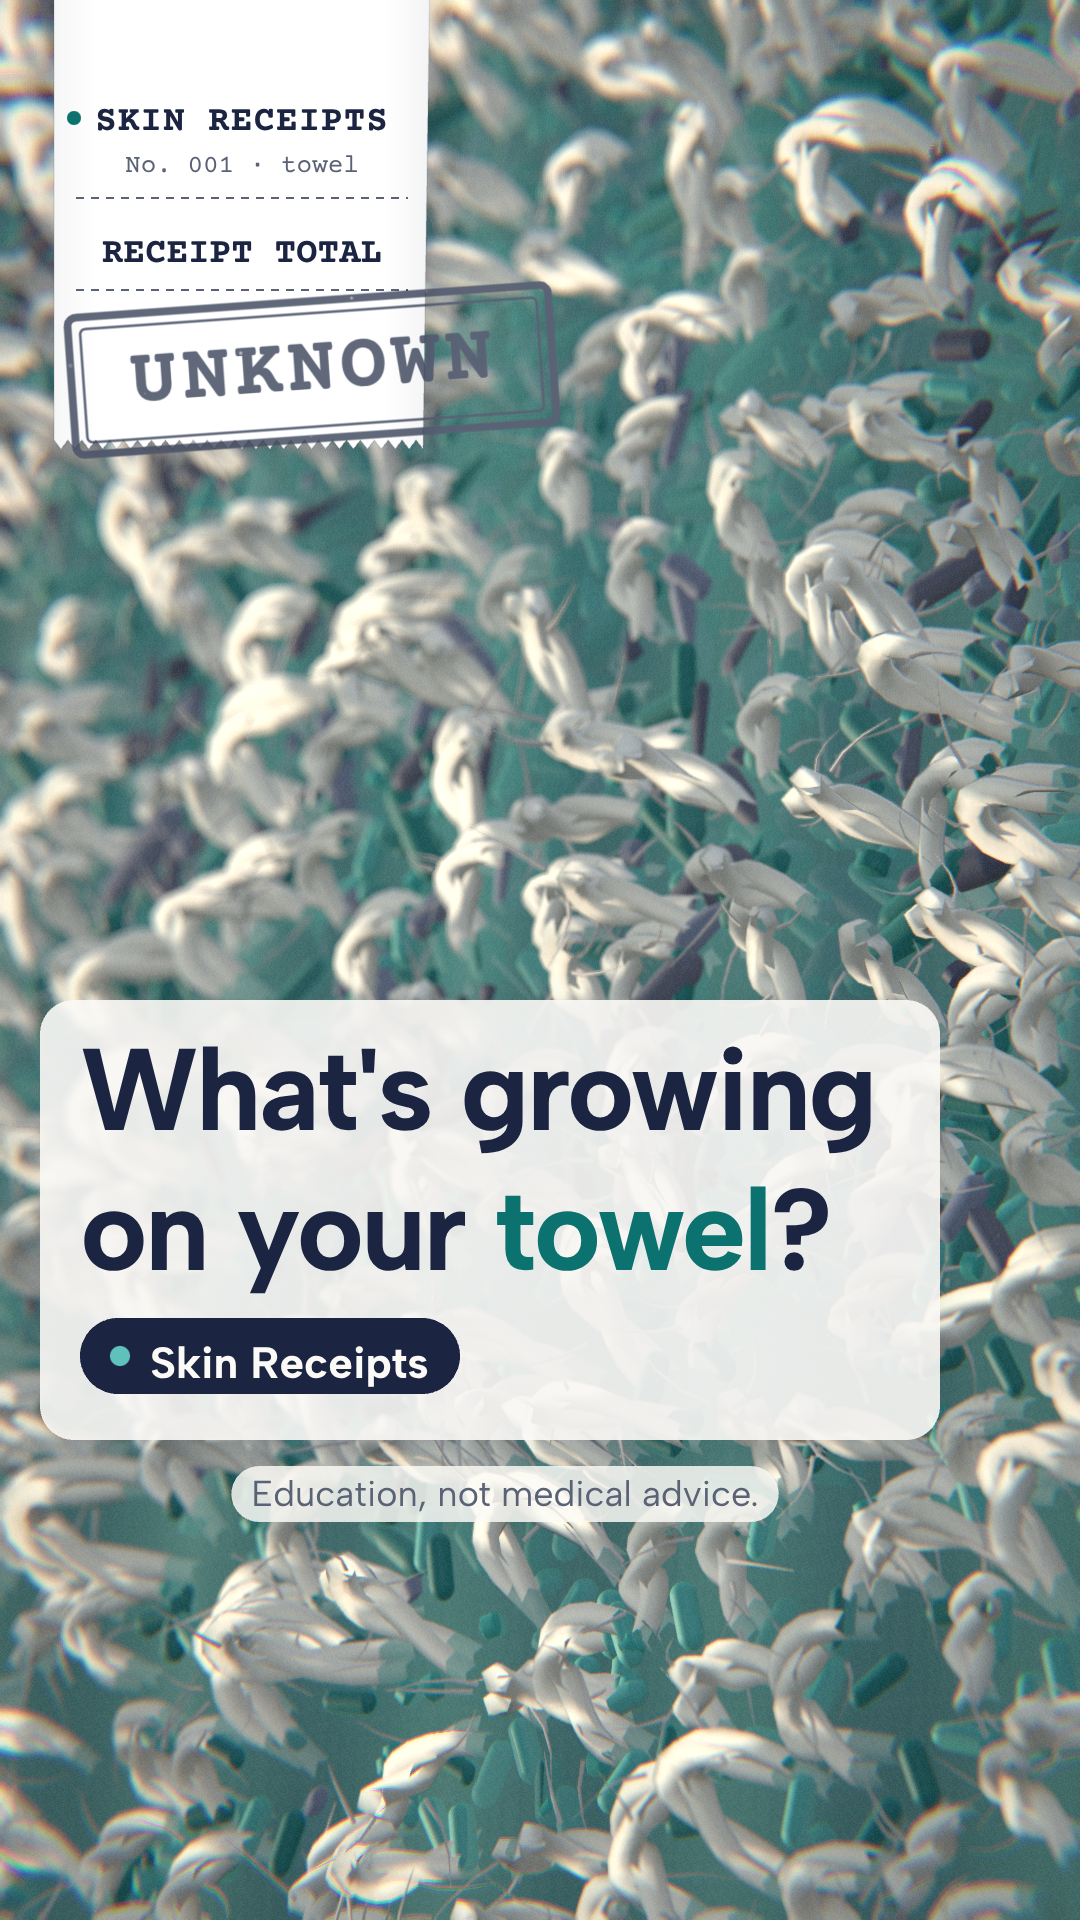
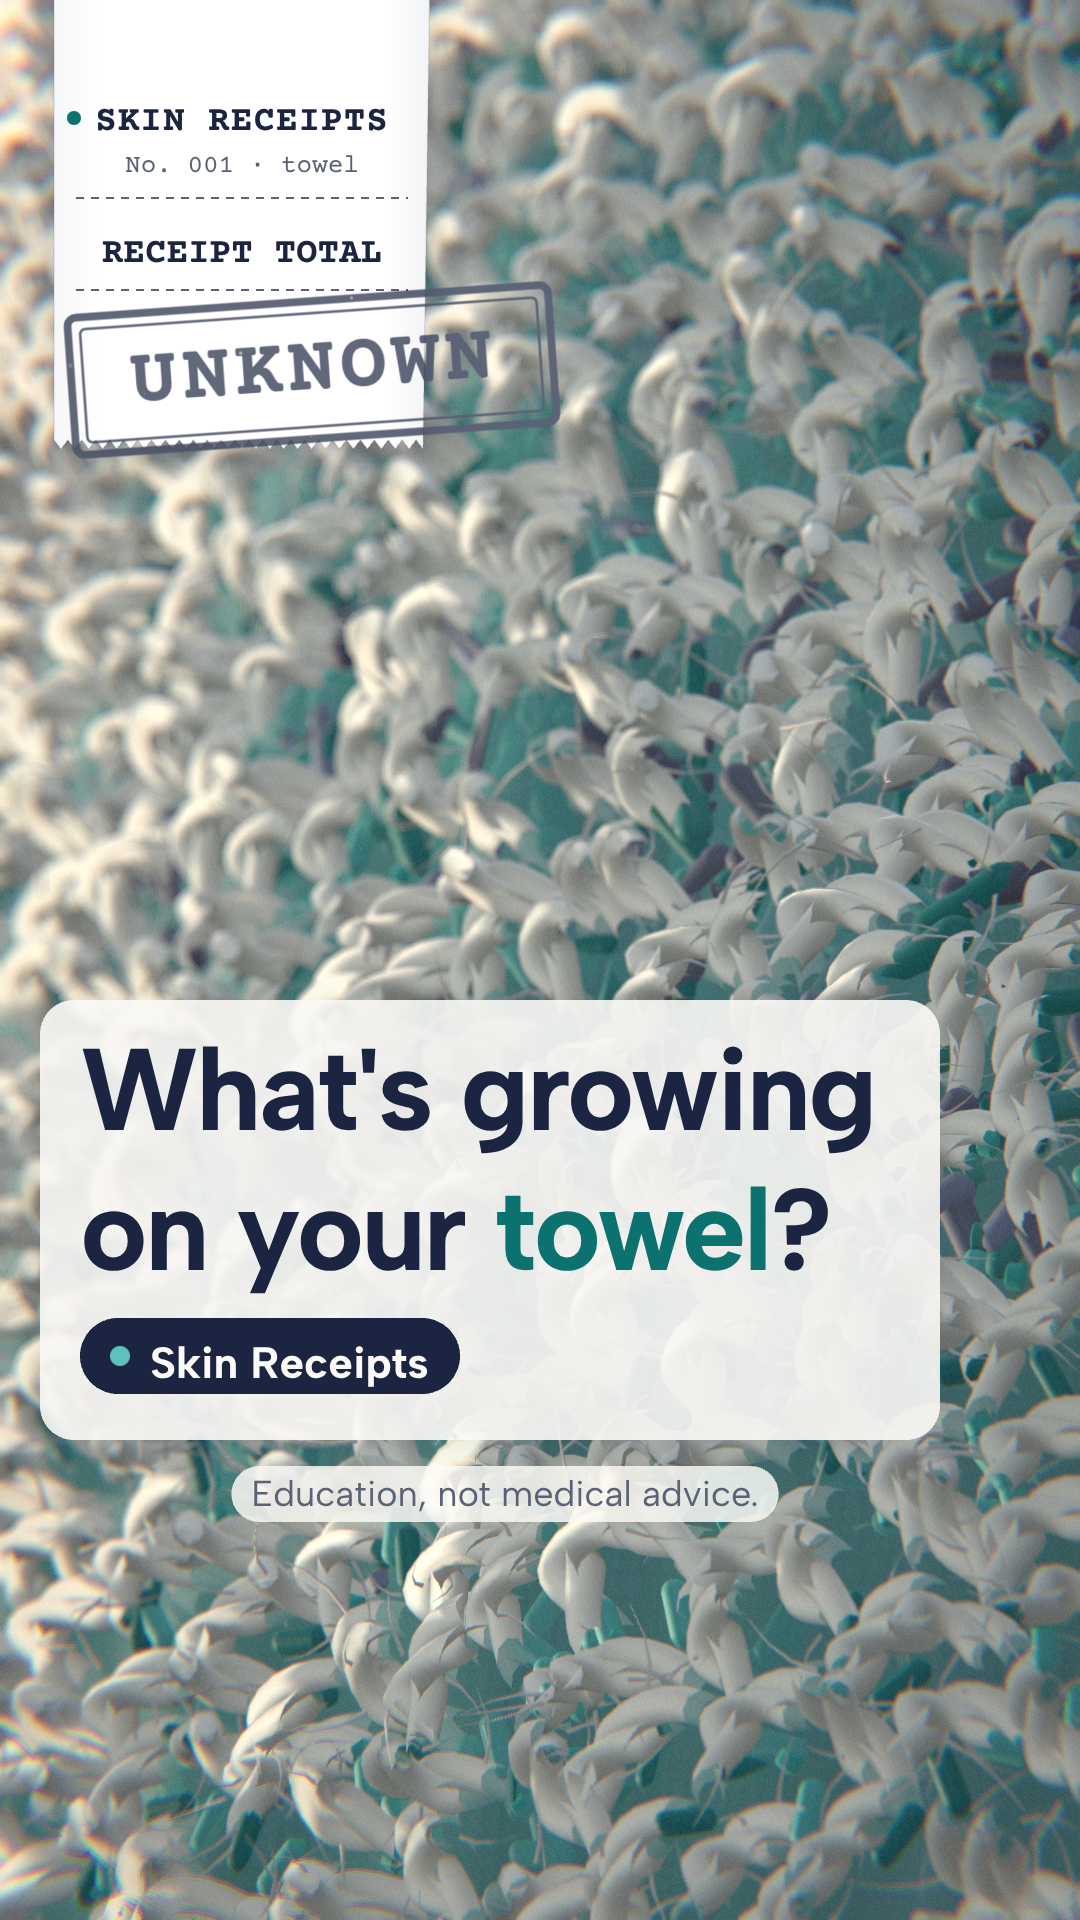
Skin Receipts ep01 round 5: dense closed-arch terry, forearm+folded-towel replaces face, deeper drape, hard cut at 60.0, wider sound dynamics
Claude-Session: https://claude.ai/code/session_01NX6jW17pPmMZCgXgFXca4U

diff --git a/channels/skin-receipts/ep01-bath-towel/scene.js b/channels/skin-receipts/ep01-bath-towel/scene.js
@@ -289,7 +289,7 @@ const bendY = z => -z * z / (2 * RB);
 // ------------------------------------------------------------ STAGE G: five skin tones, light to deep, matte, convex forms with raking light
 const gG = new THREE.Group(); scene.add(gG); const GX = 120; gG.position.x = GX; gG.visible = false; const GW = .2;
 C.skin.forEach((h, i) => { const geo = new THREE.PlaneGeometry(GW, 1.1, 40, 60), p = geo.attributes.position, cv = []; for (let k = 0; k < p.count; k++) { const y = p.getY(k), x = p.getX(k); p.setZ(k, -.35 * y * y - 6 * x * x - .006 * Math.cos(x * 15 + i) + .004 * Math.sin(y * 11 + i * 2)); const ex = smooth((Math.abs(x) / (GW / 2) - .45) / .55), ey = smooth((Math.abs(y) - .3) / .25), vv = 1 - .3 * ex - .22 * ey, mt = .5 + .5 * Math.sin(x * 23 + y * 9 + i * 3.1) * Math.cos(y * 6 - i); cv.push(vv * (1 - .06 * mt), vv * (1 - .3 * ex * .6 - .06 * ey - .04 * mt), vv * (1 - .36 * ex * .6 - .08 * ey - .06 * mt)); } geo.setAttribute("color", new THREE.Float32BufferAttribute(cv, 3)); geo.computeVertexNormals(); // curved panel + edge falloff
-  const m = mesh(geo, skinMat(h, [GW / .013, 1.1 / .013], { vc: 1, rough: .62, cc: .05, sheen: .25, sssK: .45, relief: .45 + .06 * i, pore: 2.2 + .15 * i, seed: 40 + i * 7, freckle: i === 0 ? 1 : i === 1 ? .5 : 0 }), gG); m.position.set(i * GW, 0, 0);
+  const m = mesh(geo, skinMat(col(h).lerp(col("#8a7466"), .14).getStyle(), [GW / .013, 1.1 / .013], { vc: 1, rough: .62, cc: .05, sheen: .25, sssK: .35, relief: .1 + .03 * i, pore: 2.2 + .15 * i, seed: 40 + i * 7, freckle: i === 0 ? 1 : i === 1 ? .5 : 0 }), gG); m.position.set(i * GW, 0, 0);
   const sh = hairs(260, hairGeo(.005, .00015, .5), new THREE.MeshStandardMaterial({ color: col(i < 2 ? "#a58c78" : "#120a06"), roughness: .6, transparent: true, opacity: i < 2 ? .5 : .9 }), k => { const x = (hash(k * 1.3 + i) - .5) * GW * .94, y = (hash(k * 2.9 + i) - .5) * .36, z = -.35 * y * y - 6 * x * x, n = V3(12 * x, .7 * y, 1).normalize(), a = hash(k * 4.7) * .6; return { p: V3(x + i * GW, y, z), d: n.clone().multiplyScalar(.5).add(V3(Math.sin(a), -.7, 0)).normalize(), s: .6 + hash(k * 6.1) * .9 }; }, 40 + i); gG.add(sh); });
 
 // ------------------------------------------------------------ cameras
@@ -350,7 +350,7 @@ function camFor(id, t, stg) {
 // ------------------------------------------------------------ the frame
 const STAGES = { A: gA, H: gH, D: gD, E1: gE1, E2: gE2, F: gF, G: gG };
 const BG = { A: C.receipt, H: "#cdd4dc", D: "#dfe3e8", E1: "#2b1b14", E2: "#0c142e", F: "#a89484", G: "#cfc3b8" };
-const KEYI = { A: 3.3, H: 2.6, D: 2.8, E1: 2.4, E2: 1.3, F: 2.8, G: 2.4 };
+const KEYI = { A: 3.3, H: 2.6, D: 2.8, E1: 2.4, E2: 1.3, F: 2.8, G: 1.9 };
 function show(name) { for (const k in STAGES) STAGES[k].visible = k === name; wall.visible = name === "A"; ground.visible = name === "A"; scene.background.set(BG[name]); }
 const prog = (a, b, t) => smooth((t - a) / (b - a));
 function stage(t) {
